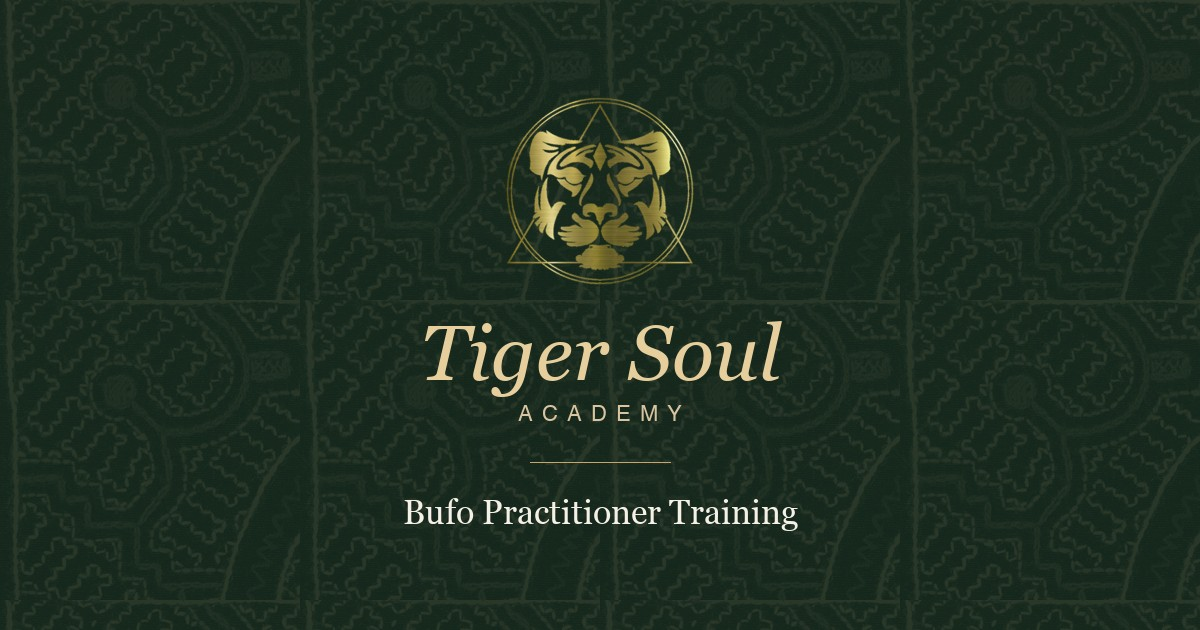
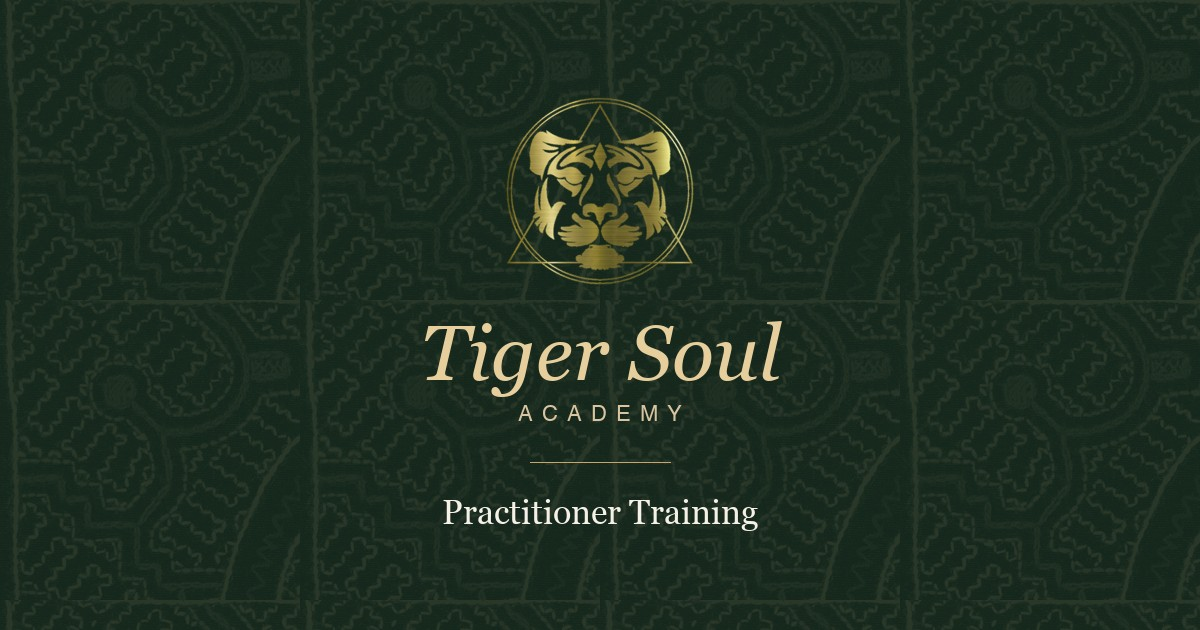
Academy portal: drop 'Bufo' and location from title/meta/cover

Changed region(s): [[0.3392, 0.7841, 0.6783, 0.8444]]

diff --git a/academy-portal/index.html b/academy-portal/index.html
@@ -3,8 +3,8 @@
 <head>
   <meta charset="UTF-8" />
   <meta name="viewport" content="width=device-width, initial-scale=1.0" />
-  <title>Bufo Practitioner Training — Deposit · Tiger Soul Academy</title>
-  <meta name="description" content="Reserve your place in the Tiger Soul Academy Bufo Practitioner Training. Your deposit secures your spot and is applied toward your tuition." />
+  <title>Practitioner Training — Deposit · Tiger Soul Academy</title>
+  <meta name="description" content="Reserve your place in the Tiger Soul Academy Practitioner Training. Your deposit secures your spot and is applied toward your tuition." />
 
   <link rel="icon" type="image/png" sizes="32x32" href="favicon-32.png" />
   <link rel="icon" type="image/png" sizes="512x512" href="favicon-512.png" />
@@ -13,15 +13,15 @@
   <meta property="og:type" content="website" />
   <meta property="og:url" content="https://deposit.tigersoulacademy.com/" />
   <meta property="og:site_name" content="Tiger Soul Academy" />
-  <meta property="og:title" content="Bufo Practitioner Training — Deposit" />
-  <meta property="og:description" content="Reserve your place in the Bufo Practitioner Training — deposit applied toward your tuition." />
+  <meta property="og:title" content="Practitioner Training — Deposit" />
+  <meta property="og:description" content="Reserve your place in the Practitioner Training — deposit applied toward your tuition." />
   <meta property="og:image" content="https://deposit.tigersoulacademy.com/cover.jpg" />
   <meta property="og:image:type" content="image/jpeg" />
   <meta property="og:image:width" content="1200" />
   <meta property="og:image:height" content="630" />
   <meta name="twitter:card" content="summary_large_image" />
-  <meta name="twitter:title" content="Bufo Practitioner Training — Deposit · Tiger Soul Academy" />
-  <meta name="twitter:description" content="Reserve your place in the Bufo Practitioner Training — deposit applied toward your tuition." />
+  <meta name="twitter:title" content="Practitioner Training — Deposit · Tiger Soul Academy" />
+  <meta name="twitter:description" content="Reserve your place in the Practitioner Training — deposit applied toward your tuition." />
   <meta name="twitter:image" content="https://deposit.tigersoulacademy.com/cover.jpg" />
 
   <link rel="preconnect" href="https://fonts.googleapis.com" />
@@ -298,8 +298,8 @@
       <div class="lockup__sub">Academy</div>
     </div>
 
-    <h1>Bufo <em>Practitioner</em> Training</h1>
-    <p class="meta">March 6&ndash;18, 2027 &nbsp;&middot;&nbsp; Puerto Morelos, Mexico</p>
+    <h1><em>Practitioner</em> Training</h1>
+    <p class="meta">March 6&ndash;18, 2027</p>
 
     <p class="lead">Reserve your place in the next training cohort. Your deposit secures your spot
       and is applied in full toward your tuition.</p>